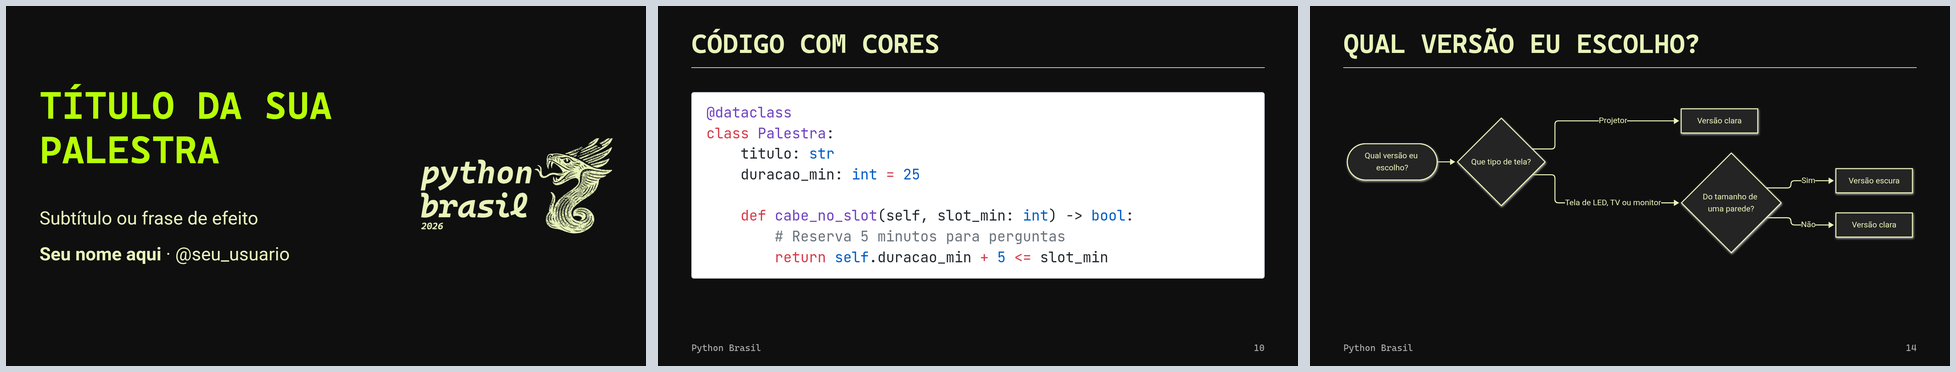
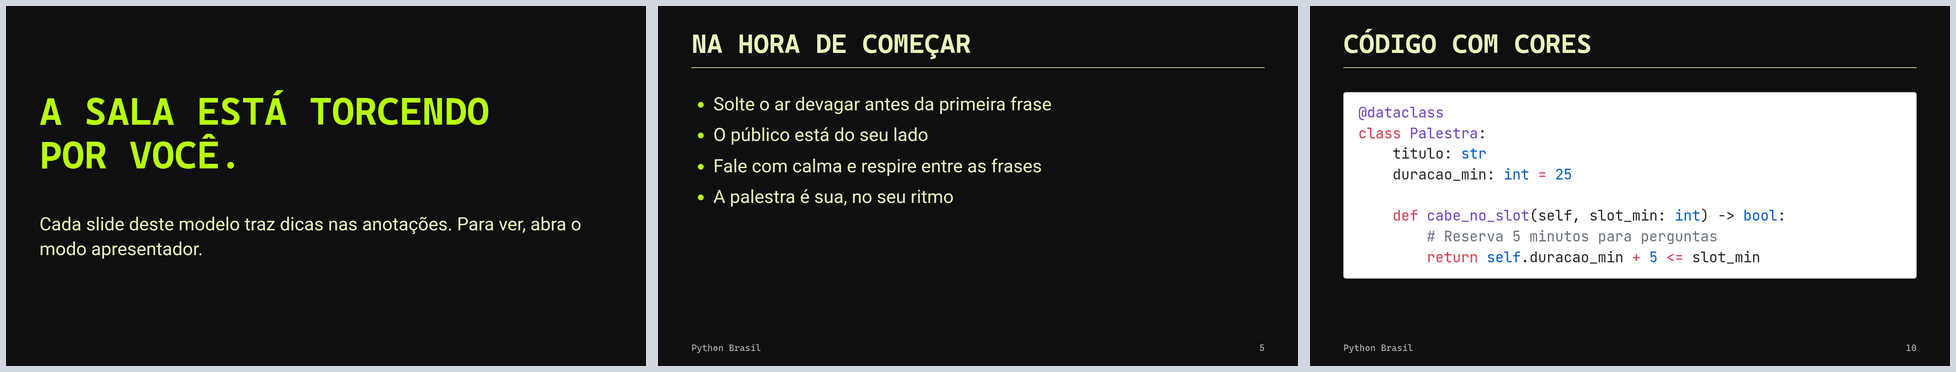
docs(readme): lead with the tips and show them in the slide previews

diff --git a/scripts/previews.py b/scripts/previews.py
@@ -9,8 +9,8 @@
 Exporta os slides em PNG com o Slidev (npx slidev export), nas variantes
 Python Floripa clara e escura e Python Brasil clara e escura, e monta:
 
-    docs/overview.png          seis slides da versão clara
-    docs/overview-escura.png   os mesmos seis, na versão escura
+    docs/overview.png          nove slides da versão clara
+    docs/overview-escura.png   os mesmos nove, na versão escura
     docs/python-brasil.png     três slides com a marca Python Brasil
     docs/python-brasil-escura.png  os mesmos três, na versão escura
     docs/codigo.png            o slide de código, na versão escura
@@ -32,8 +32,8 @@ from PIL import Image, ImageOps
 RAIZ = Path(__file__).resolve().parent.parent
 DOCS = RAIZ / "docs"
 
-SLIDES_DA_VISAO_GERAL = [1, 7, 10, 14, 15, 18]
-SLIDES_DA_PYTHON_BRASIL = [1, 10, 14]
+SLIDES_DA_VISAO_GERAL = [1, 2, 4, 5, 10, 12, 13, 14, 16]
+SLIDES_DA_PYTHON_BRASIL = [2, 5, 10]
 SLIDE_DE_CODIGO = 10
 
 LARGURA_DA_MINIATURA = 640

diff --git a/README.md b/README.md
@@ -1,20 +1,22 @@
 # Modelo de slides para palestras de Python
 
-Escreva a sua palestra em Markdown e apresente no navegador, com a marca da sua comunidade. Cada slide de exemplo mostra um layout e traz dicas nas anotações, que você vê no modo apresentador. O modelo usa o [Slidev](https://sli.dev): o código sai colorido sozinho, e fluxogramas e gráficos são escritos como texto, com o [Mermaid](https://mermaid.js.org).
+Em vez de Lorem Ipsum, os slides de exemplo trazem dicas práticas para quem vai apresentar pela primeira ou pela milésima vez: como começar com calma, quanto texto cabe num slide, como deixar o código legível do fundo da sala e o que testar antes de subir no palco. Cada slide mostra um layout, e as anotações trazem mais dicas, que você vê no modo apresentador. Troque as dicas pelo seu conteúdo e aproveite o layout.
+
+Os slides são um arquivo Markdown, apresentado no navegador com o [Slidev](https://sli.dev). O código sai colorido sozinho, e fluxogramas e gráficos são escritos como texto, com o [Mermaid](https://mermaid.js.org).
 
 O modelo já vem com duas marcas, Python Floripa e Python Brasil, cada uma com versão clara e escura. Uma linha no topo do `slides.md` escolhe a marca. Durante a palestra, o botão de lua troca a versão.
 
 ### Python Floripa, versão clara
 
-![Seis slides de exemplo com a marca Python Floripa, na versão clara, em branco, azul-marinho e laranja: capa, seção, código, fluxograma, gráfico de barras e encerramento com QR code](docs/overview.png)
+![Nove slides de exemplo com a marca Python Floripa, na versão clara, em branco, azul-marinho e laranja: capa, "A sala está torcendo por você.", "Legibilidade conta.", dicas para começar, código, três números, o seu dia de palestra, o fluxograma da versão e "Sua palestra é para todo mundo"](docs/overview.png)
 
 ### Python Floripa, versão escura
 
-![Os mesmos seis slides na versão escura, com fundo azul-marinho e títulos em laranja. O código continua num cartão branco](docs/overview-escura.png)
+![Os mesmos nove slides na versão escura, com fundo azul-marinho e títulos em laranja. O código continua num cartão branco](docs/overview-escura.png)
 
 ### Python Brasil, versão clara
 
-![Capa, slide de código e fluxograma com a marca Python Brasil, na versão clara, em branco, preto e verde limão](docs/python-brasil.png)
+!["A sala está torcendo por você.", dicas para começar e código, com a marca Python Brasil na versão clara, em branco, preto e verde limão](docs/python-brasil.png)
 
 ### Python Brasil, versão escura
 

diff --git a/CONTRIBUTING.md b/CONTRIBUTING.md
@@ -24,9 +24,9 @@ O script exporta os slides nas versões clara e escura das duas marcas, e regrav
 
 | Arquivo | Conteúdo |
 |---|---|
-| `docs/overview.png` | Seis slides da versão clara |
-| `docs/overview-escura.png` | Os mesmos seis, na versão escura |
-| `docs/python-brasil.png` | Capa, código e fluxograma com a marca Python Brasil |
+| `docs/overview.png` | Nove slides da versão clara, com dicas e com exemplos técnicos |
+| `docs/overview-escura.png` | Os mesmos nove, na versão escura |
+| `docs/python-brasil.png` | Três slides com a marca Python Brasil |
 | `docs/python-brasil-escura.png` | Os mesmos três, na versão escura |
 | `docs/codigo.png` | O slide de código na versão escura |
 | `docs/cores/*.png` | Uma amostra de cada cor da tabela de cores do README |
